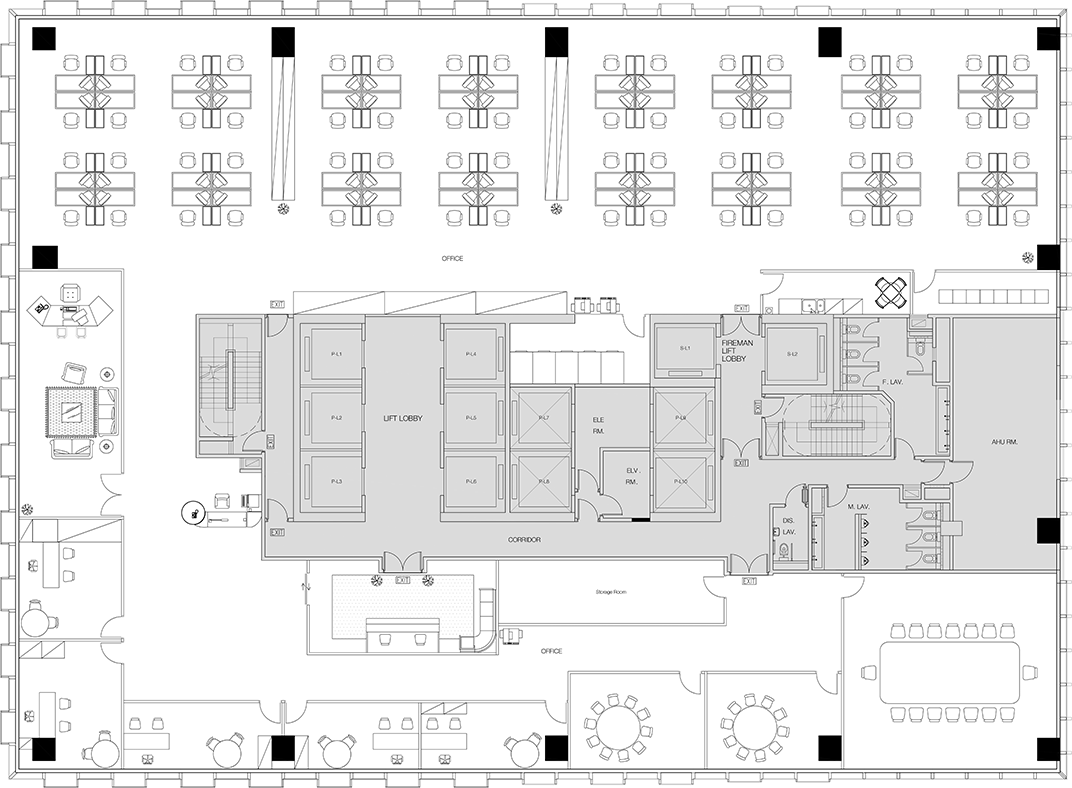
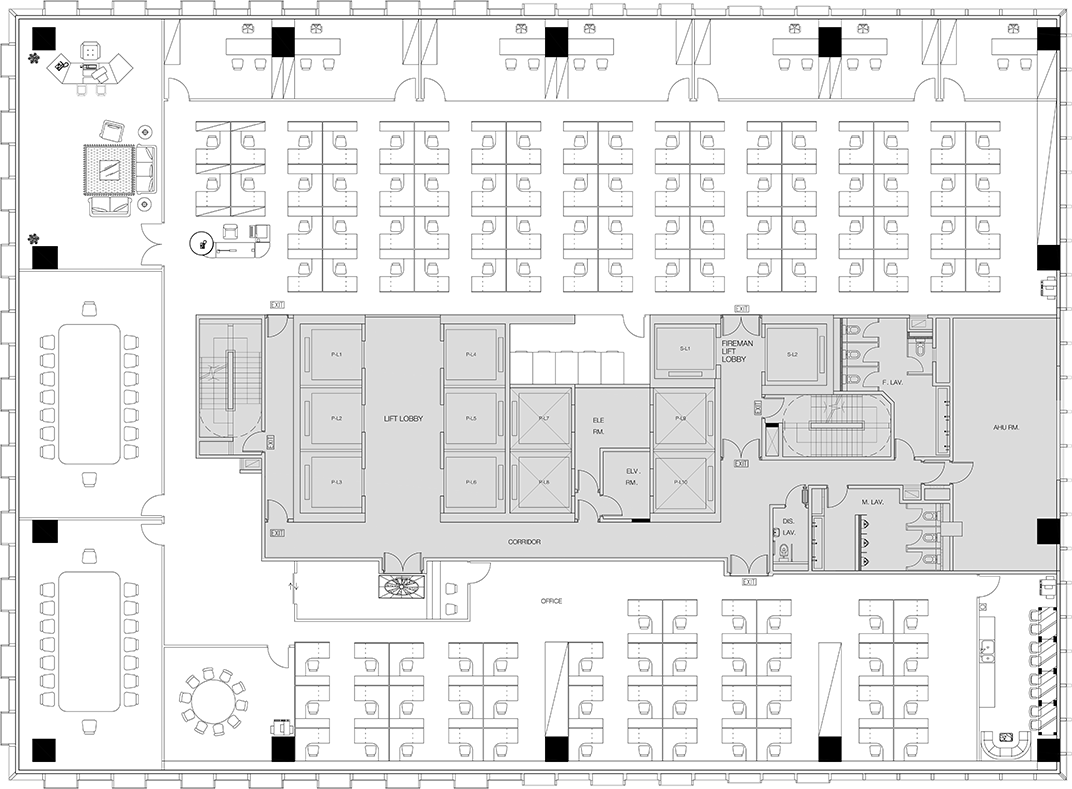
Updates leasing floor plans images

diff --git a/views/about.html b/views/about.html
@@ -167,66 +167,70 @@
                             </div>
                         </div>
 
-                        <div class="connect-timetable">
-                            <div class="connect-table">
-                                <div class="connect-row">
-                                    <div class="connect-data header">&nbsp;</div>
-                                    <div class="connect-data content"><img src="/images/about/connectivity/mtr-icon.png" alt=""></div>
-                                </div>
-                                <div class="connect-row">
-                                    <div class="connect-data header">Kowloon Bay</div>
-                                    <div class="connect-data content">15 mins</div>
-                                </div>
-                                <div class="connect-row">
-                                    <div class="connect-data header">&nbsp;</div>
-                                    <div class="connect-data content">24 mins</div>
-                                </div>
-                                <div class="connect-row">
-                                    <div class="connect-data header">&nbsp;</div>
-                                    <div class="connect-data content">29 mins</div>
-                                </div>
-                                <div class="connect-row">
-                                    <div class="connect-data header">&nbsp;</div>
-                                    <div class="connect-data content">52 mins</div>
-                                </div>
-                                <div class="connect-row">
-                                    <div class="connect-data header">&nbsp;</div>
-                                    <div class="connect-data content">53 mins</div>
-                                </div>
-                                <div class="connect-row">
-                                    <div class="connect-data header">&nbsp;</div>
-                                    <div class="connect-data content">58 mins</div>
-                                </div>
-                            </div>
+                        <div class="connect-table-wrapper">
+                            <h2>Transport from Kowloon Bay</h2>
 
-                            <div class="connect-table reversed">
-                                <div class="connect-row">
-                                    <div class="connect-data content"><img src="/images/about/connectivity/car-icon.png" alt=""></div>
-                                    <div class="connect-data header">&nbsp;</div>
+                            <div class="connect-timetable">
+                                <div class="connect-table">
+                                    <div class="connect-row">
+                                        <div class="connect-data header mobileHidden">&nbsp;</div>
+                                        <div class="connect-data content"><img src="/images/about/connectivity/mtr-icon.png" alt=""></div>
+                                    </div>
+                                    <div class="connect-row">
+                                        <div class="connect-data header mobileHidden">Kowloon Bay</div>
+                                        <div class="connect-data content">15 mins</div>
+                                    </div>
+                                    <div class="connect-row">
+                                        <div class="connect-data header mobileHidden">&nbsp;</div>
+                                        <div class="connect-data content">24 mins</div>
+                                    </div>
+                                    <div class="connect-row">
+                                        <div class="connect-data header mobileHidden">&nbsp;</div>
+                                        <div class="connect-data content">29 mins</div>
+                                    </div>
+                                    <div class="connect-row">
+                                        <div class="connect-data header mobileHidden">&nbsp;</div>
+                                        <div class="connect-data content">52 mins</div>
+                                    </div>
+                                    <div class="connect-row">
+                                        <div class="connect-data header mobileHidden">&nbsp;</div>
+                                        <div class="connect-data content">53 mins</div>
+                                    </div>
+                                    <div class="connect-row">
+                                        <div class="connect-data header mobileHidden">&nbsp;</div>
+                                        <div class="connect-data content">58 mins</div>
+                                    </div>
                                 </div>
-                                <div class="connect-row">
-                                    <div class="connect-data content">12 mins</div>
-                                    <div class="connect-data header">Quarry Bay</div>
-                                </div>
-                                <div class="connect-row">
-                                    <div class="connect-data content">15 mins</div>
-                                    <div class="connect-data header">Tsim Sha Tsui</div>
-                                </div>
-                                <div class="connect-row">
-                                    <div class="connect-data content">20 mins</div>
-                                    <div class="connect-data header">Central</div>
-                                </div>
-                                <div class="connect-row">
-                                    <div class="connect-data content">35 mins</div>
-                                    <div class="connect-data header">HK International Airport</div>
-                                </div>
-                                <div class="connect-row">
-                                    <div class="connect-data content">40 mins</div>
-                                    <div class="connect-data header">Lo Wu Station</div>
-                                </div>
-                                <div class="connect-row">
-                                    <div class="connect-data content">50 mins</div>
-                                    <div class="connect-data header">Lok Ma Chau Station</div>
+
+                                <div class="connect-table reversed">
+                                    <div class="connect-row">
+                                        <div class="connect-data content"><img src="/images/about/connectivity/car-icon.png" alt=""></div>
+                                        <div class="connect-data header">&nbsp;</div>
+                                    </div>
+                                    <div class="connect-row">
+                                        <div class="connect-data content">12 mins</div>
+                                        <div class="connect-data header">Quarry Bay</div>
+                                    </div>
+                                    <div class="connect-row">
+                                        <div class="connect-data content">15 mins</div>
+                                        <div class="connect-data header">Tsim Sha Tsui</div>
+                                    </div>
+                                    <div class="connect-row">
+                                        <div class="connect-data content">20 mins</div>
+                                        <div class="connect-data header">Central</div>
+                                    </div>
+                                    <div class="connect-row">
+                                        <div class="connect-data content">35 mins</div>
+                                        <div class="connect-data header">HK International Airport</div>
+                                    </div>
+                                    <div class="connect-row">
+                                        <div class="connect-data content">40 mins</div>
+                                        <div class="connect-data header">Lo Wu Station</div>
+                                    </div>
+                                    <div class="connect-row">
+                                        <div class="connect-data content">50 mins</div>
+                                        <div class="connect-data header">Lok Ma Chau Station</div>
+                                    </div>
                                 </div>
                             </div>
                         </div>

diff --git a/views/leasing.html b/views/leasing.html
@@ -276,9 +276,20 @@
                             </a>
                         </div>
                         <div class="showcase-slider highzone-content">
-                            <figure>
-                                <img src="/images/leasing/floorplan_highzone.jpg" alt="">
-                            </figure>
+                            <div class="slider-wrapper sliderDots" id="highzone-slider">
+                                <figure>
+                                    <img src="/images/leasing/highzone/highzone-1.png" alt="">
+                                </figure>
+                                <figure>
+                                    <img src="/images/leasing/highzone/highzone-2.png" alt="">
+                                </figure>
+                                <figure>
+                                    <img src="/images/leasing/highzone/highzone-3.png" alt="">
+                                </figure>
+                                <figure>
+                                    <img src="/images/leasing/highzone/highzone-4.png" alt="">
+                                </figure>
+                            </div>
                         </div>
                     </div>
 
@@ -298,9 +309,47 @@
                             </a>
                         </div>
                         <div class="showcase-slider lowzone-content">
-                            <figure>
-                                <img src="/images/leasing/floorplan_lowzone.jpg" alt="">
-                            </figure>
+                            <div class="slider-wrapper sliderDots" id="lowzone-slider">
+                                <figure>
+                                    <img src="/images/leasing/lowzone/lowzone-1.png" alt="">
+                                </figure>
+                                <figure>
+                                    <img src="/images/leasing/lowzone/lowzone-2.png" alt="">
+                                </figure>
+                                <figure>
+                                    <img src="/images/leasing/lowzone/lowzone-3.png" alt="">
+                                </figure>
+                                <figure>
+                                    <img src="/images/leasing/lowzone/lowzone-4.png" alt="">
+                                </figure>
+                                <figure>
+                                    <img src="/images/leasing/lowzone/lowzone-5.png" alt="">
+                                </figure>
+                                <figure>
+                                    <img src="/images/leasing/lowzone/lowzone-6.png" alt="">
+                                </figure>
+                                <figure>
+                                    <img src="/images/leasing/lowzone/lowzone-7.png" alt="">
+                                </figure>
+                                <figure>
+                                    <img src="/images/leasing/lowzone/lowzone-8.png" alt="">
+                                </figure>
+                                <figure>
+                                    <img src="/images/leasing/lowzone/lowzone-9.png" alt="">
+                                </figure>
+                                <figure>
+                                    <img src="/images/leasing/lowzone/lowzone-10.png" alt="">
+                                </figure>
+                                <figure>
+                                    <img src="/images/leasing/lowzone/lowzone-11.png" alt="">
+                                </figure>
+                                <figure>
+                                    <img src="/images/leasing/lowzone/lowzone-12.png" alt="">
+                                </figure>
+                                <figure>
+                                    <img src="/images/leasing/lowzone/lowzone-13.png" alt="">
+                                </figure>
+                            </div>
                         </div>
                     </div>
 
@@ -322,10 +371,10 @@
                         <div class="showcase-slider retail-content">
                             <div class="slider-wrapper sliderDots" id="retail-slider">
                                 <figure>
-                                    <img src="/images/leasing/floorplan_retail1.jpg" alt="">
+                                    <img src="/images/leasing/retailcatering/rc_floorplan1.png" alt="">
                                 </figure>
                                 <figure>
-                                    <img src="/images/leasing/floorplan_retail2.jpg" alt="">
+                                    <img src="/images/leasing/retailcatering/rc_floorplan2.png" alt="">
                                 </figure>
                             </div>
                         </div>

diff --git a/public/css/about.css b/public/css/about.css
@@ -45,6 +45,14 @@ section.section-connect {
     }
   }
 
+  .connect-table-wrapper {
+    margin-top: 25px;
+
+    h2 {
+      margin-bottom: 15px;
+    }
+  }
+
   .connect-timetable {
     display: flex;
 
@@ -61,7 +69,7 @@ section.section-connect {
           font-size: 13px;
 
           &.header {
-            flex: 0 1 70%;
+            flex: 0 1 75%;
             text-align: right;
             font-weight: bold;
             padding-left: 0;
@@ -69,7 +77,7 @@ section.section-connect {
           }
 
           &.content {
-            flex: 0 1 30%;
+            flex: 0 1 25%;
             padding-left: 15px;
             padding-right: 30px;
           }
@@ -671,32 +679,43 @@ section.section-assurance {
 
     .connect-map {
       min-height: auto;
+      transform: scale(1.8) translate(-21%, 7%);
     }
 
     .connect-timetable {
       flex-flow: row wrap;
-      margin-top: 10px;
+      margin: 10px auto 0;
 
       .connect-table {
-        flex: 0 1 100%;
+        flex: 0 1 auto;
         margin: 15px 0;
 
         .connect-row {
-          &:first-of-type {
-            padding-bottom: 10px;
+          &:not(:first-of-type) {
+            height: 16px;
+          }
+
+          &:nth-of-type(1) {
+            .connect-data.content {
+              padding-left: 13px;
+            }
           }
 
           .connect-data {
             &.header {
               order: 2;
               text-align: left;
-              padding-right: 15px;
+              padding-right: 10px;
               padding-left: 0;
+
+              &.mobileHidden {
+                display: none;
+              }
             }
 
             &.content {
               order: 1;
-              padding-right: 30px;
+              padding-right: 10px;
               padding-left: 0;
             }
           }
@@ -706,25 +725,31 @@ section.section-assurance {
           .connect-row {
             &:not(:first-of-type) {
               .connect-data:nth-of-type(1) {
-                border-left-color: transparent;
+                // border-left-color: transparent;
+              }
+            }
+
+            &:nth-of-type(1) {
+              .connect-data.content {
+                padding-left: 28px;
               }
             }
 
             .connect-data {
               &:nth-of-type(1) {
-                border-left-width: 0;
+                // border-left-width: 0;
               }
 
               &.header {
                 order: 2;
-                padding-right: 15px;
+                padding-right: 10px;
                 padding-left: 0;
               }
 
               &.content {
                 order: 1;
-                padding-right: 30px;
-                padding-left: 0;
+                padding-right: 15px;
+                padding-left: 15px;
               }
             }
           }
@@ -765,6 +790,16 @@ section.section-assurance {
       .assurance-building {
         width: 100%;
       }
+    }
+  }
+}
+
+@media (max-width: 320px) {
+  section.section-connect .connect-content {
+    padding: 0 5px 40px;
+
+    .connect-words {
+      padding: 0 20px;
     }
   }
 }

diff --git a/views/index.html b/views/index.html
@@ -29,7 +29,7 @@
 <body>
     <div class="mobile-navigation-list">
         <figure class="mobile-nav-image">
-            <img src="/images/innovative/homepage_hero.png" alt="">
+            <img src="/images/homepage_hero.png" alt="">
         </figure>
 
         <div class="mobile-nav-list">
@@ -107,7 +107,7 @@
 
                 <div class="full-width-hero">
                     <figure>
-                        <img src="/images/homepage_hero.jpg" alt="">
+                        <img src="/images/homepage_hero.png" alt="">
                     </figure>
                 </div>
             </section>

diff --git a/public/js/leasing.js b/public/js/leasing.js
@@ -5,8 +5,8 @@ import CountUp from 'countup.js'
 import interact from 'interactjs'
 
 window.addEventListener('load', function() {
-  // specialSlick('#highzone-slider');
-  // specialSlick('#lowzone-slider');
+  specialSlick('#highzone-slider');
+  specialSlick('#lowzone-slider');
   specialSlick('#retail-slider');
 })
 
